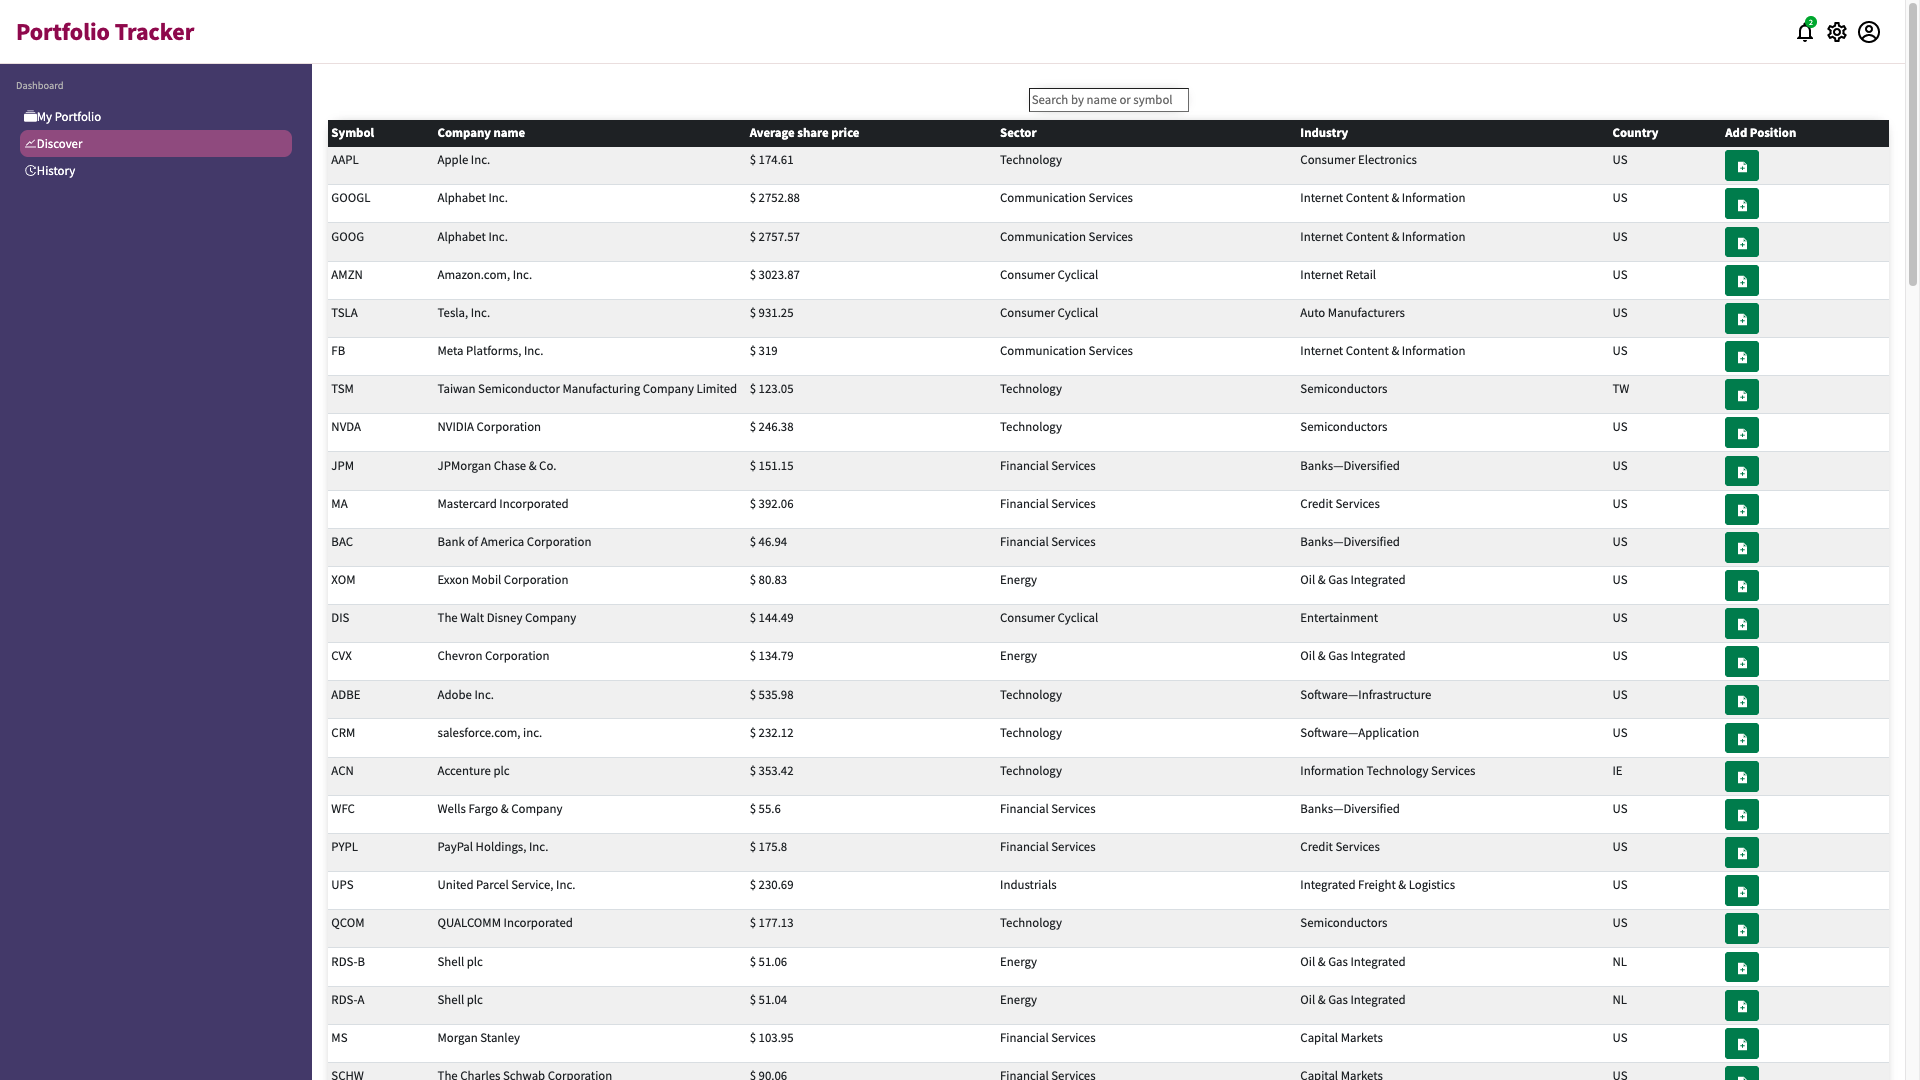
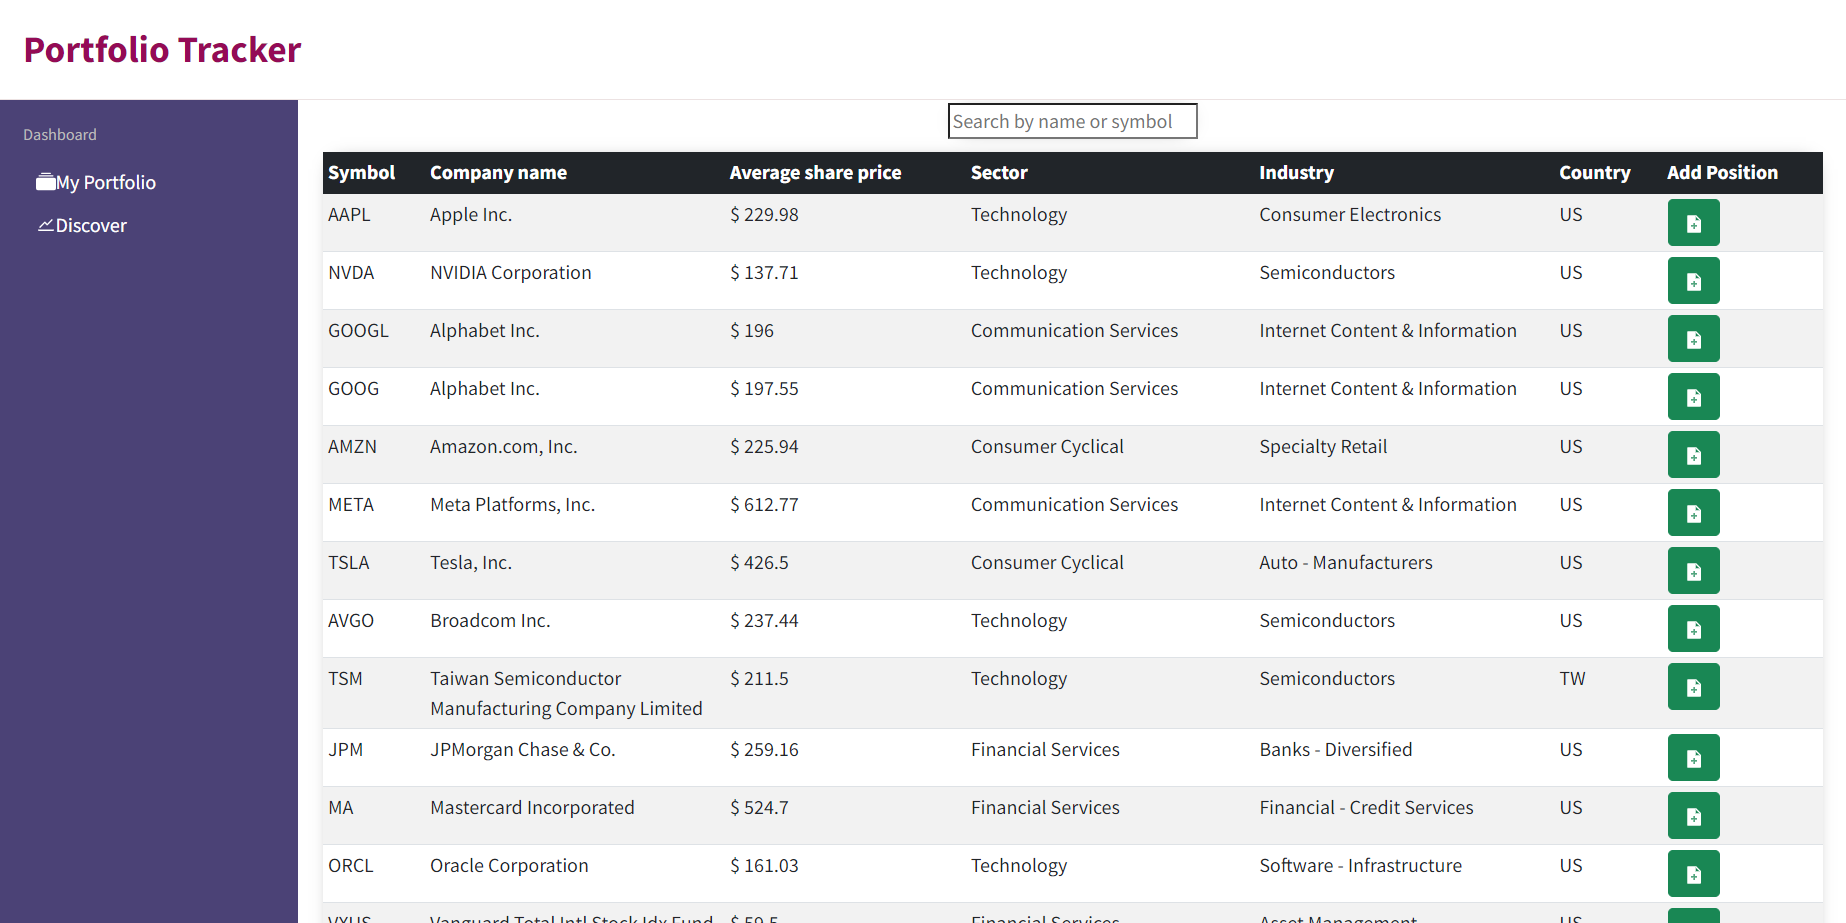
updated screenshots

diff --git a/README.md b/README.md
@@ -1,20 +1,20 @@
 # Portfolio Tracker Application
 Portfolio Tracker app allows a user to track their shareholdings performance and total portfolio value in real-time. The "Discover" page allows you to select a number of stocks provided by the external API, real-time data comes from the NASDAQ stock exchange. User is able to compare different stocks, add them to their portfolio and track the total portfolio value in real-time which is displayed on "My Portfolio" page.
 
-This is a group project, a full-stack web app using JavaScript and React front-end, Express server, and MongoDB database back-end.
+This is a solo project, a full-stack web app using JavaScript and React front-end, Express server, and MongoDB database back-end.
 
 
-### Portfolio Tracker Application Demo
-![](screenshots/portfolio_tracker.gif)
+### Portfolio Tracker Application 
+![](screenshots/Portfolio_1.png)
 
 ### Discover page - view and search any available stock with real-time prices
 ![](screenshots/discover.png)
 
 ### View selected stock, read company description, view historical price performance
-![](screenshots/card.png)
+![](screenshots/stock_info.png)
 
-### My Portfolio page
-![](screenshots/portfolio.png)
+### View selected stock charts
+![](screenshots/stock_chart.png)
 
 
 ## Project brief
